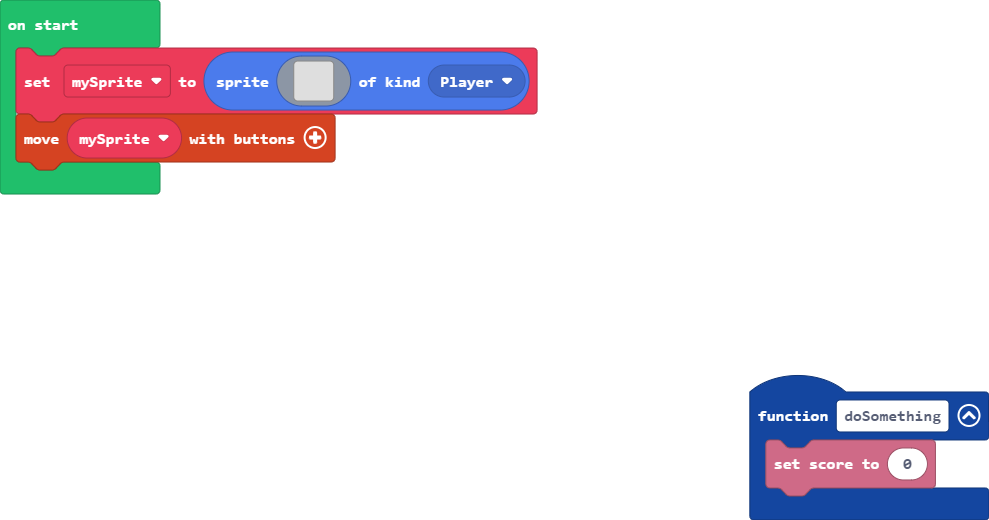
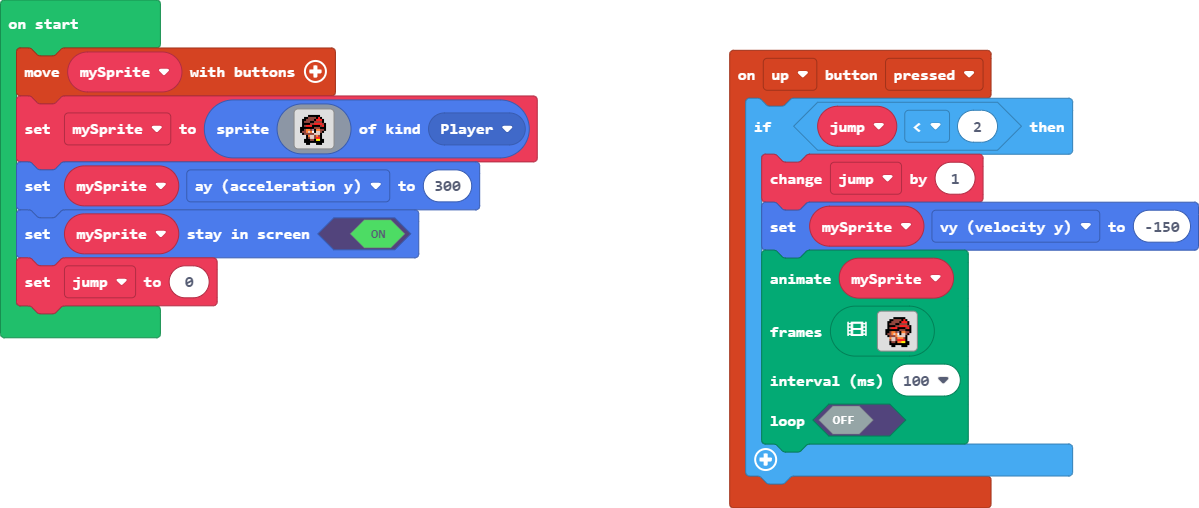
Update main.blocks, main.ts

diff --git a/main.ts b/main.ts
@@ -1,22 +1,121 @@
-function doSomething () {
-    info.setScore(0)
-}
-let mySprite = sprites.create(img`
-    . . . . . . . . . . . . . . . . 
-    . . . . . . . . . . . . . . . . 
-    . . . . . . . . . . . . . . . . 
-    . . . . . . . . . . . . . . . . 
-    . . . . . . . . . . . . . . . . 
-    . . . . . . . . . . . . . . . . 
-    . . . . . . . . . . . . . . . . 
-    . . . . . . . . . . . . . . . . 
-    . . . . . . . . . . . . . . . . 
-    . . . . . . . . . . . . . . . . 
-    . . . . . . . . . . . . . . . . 
-    . . . . . . . . . . . . . . . . 
-    . . . . . . . . . . . . . . . . 
-    . . . . . . . . . . . . . . . . 
-    . . . . . . . . . . . . . . . . 
-    . . . . . . . . . . . . . . . . 
-    `, SpriteKind.Player)
+controller.up.onEvent(ControllerButtonEvent.Pressed, function () {
+    if (jump < 2) {
+        jump += 1
+        mySprite.vy = -150
+        animation.runImageAnimation(
+        mySprite,
+        [img`
+            . . . . . . . . . . . . . . . . 
+            . . . . . . f f f f f f . . . . 
+            . . . . f f e e e e f 2 f . . . 
+            . . . f f e e e e f 2 2 2 f . . 
+            . . . f e e e f f e e e e f . . 
+            . . . f f f f e e 2 2 2 2 e f . 
+            . . . f e 2 2 2 f f f f e 2 f . 
+            . . f f f f f f f e e e f f f . 
+            . . f f e 4 4 e b f 4 4 e e f . 
+            . . f e e 4 d 4 1 f d d e f . . 
+            . . . f e e e 4 d d d d f . . . 
+            . . . . 4 d d e 4 4 4 e f . . . 
+            . . . . e d d e 2 2 2 2 f . . . 
+            . . . . f e e f 4 4 5 5 f f . . 
+            . . . . f f f f f f f f f f . . 
+            . . . . . f f . . . f f f . . . 
+            `,img`
+            . . . . . . . . . . . . . . . . 
+            . . . . . . . . . . . . . . . . 
+            . . . . . . f f f . . . . . . . 
+            . . . . . f e f f f f f f . . . 
+            . f f e 4 e e e f e f e f f . . 
+            f f e d d e 4 4 f 2 f e e f . . 
+            f f e d d e d 4 f 2 f e e e f . 
+            . f f e e 4 4 e f 2 e f e e f . 
+            . f 4 2 4 d 1 b f f e f e e f . 
+            . f 4 2 4 d f f e f 2 e f e f . 
+            f f 5 2 4 d d 4 e f 2 e 2 f f . 
+            f f 5 2 e d d 4 e f 2 e 2 2 f . 
+            f f f f f f e e f e 2 e 2 f . . 
+            . f f . . . f e f 2 e f f . . . 
+            . . . . . . . f f f f . . . . . 
+            . . . . . . . . . . . . . . . . 
+            `,img`
+            . . . f f f . . . f f . . . . . 
+            . . f f f f f f f f f f . . . . 
+            . . f f 5 5 4 4 f e e f . . . . 
+            . . . f 2 2 2 2 e d d e . . . . 
+            . . . f e 4 4 4 e d d 4 . . . . 
+            . . . f d d d d 4 e e e f . . . 
+            . . f e d d f 1 4 d 4 e e f . . 
+            . f e e 4 4 f b e 4 4 e f f . . 
+            . f f f e e e f f f f f f f . . 
+            . f 2 e f f f f 2 2 2 e f . . . 
+            . f e 2 2 2 2 e e f f f f . . . 
+            . . f e e e e f f e e e f . . . 
+            . . f 2 2 2 f e e e e f f . . . 
+            . . . f 2 f e e e e f f . . . . 
+            . . . . f f f f f f . . . . . . 
+            . . . . . . . . . . . . . . . . 
+            `,img`
+            . . . . . . . . . . . . . . . . 
+            . . . . . f f f f . . . . . . . 
+            . . . f f e 2 f e f . . . f f . 
+            . . f 2 e 2 e f e e f f f f f f 
+            . f 2 2 e 2 f e 4 d d e 2 5 f f 
+            . f f 2 e 2 f e 4 d d 4 2 5 f f 
+            . f e f e 2 f e f f d 4 2 4 f . 
+            . f e e f e f f b 1 d 4 2 4 f . 
+            . f e e f e 2 f e 4 4 e e f f . 
+            . f e e e f 2 f 4 d e d d e f f 
+            . . f e e f 2 f 4 4 e d d e f f 
+            . . f f e f e f e e e 4 e f f . 
+            . . . f f f f f f e f . . . . . 
+            . . . . . . . f f f . . . . . . 
+            . . . . . . . . . . . . . . . . 
+            . . . . . . . . . . . . . . . . 
+            `,img`
+            . . . . . . . . . . . . . . . . 
+            . . . . . . f f f f f f . . . . 
+            . . . . f f e e e e f 2 f . . . 
+            . . . f f e e e e f 2 2 2 f . . 
+            . . . f e e e f f e e e e f . . 
+            . . . f f f f e e 2 2 2 2 e f . 
+            . . . f e 2 2 2 f f f f e 2 f . 
+            . . f f f f f f f e e e f f f . 
+            . . f f e 4 4 e b f 4 4 e e f . 
+            . . f e e 4 d 4 1 f d d e f . . 
+            . . . f e e e 4 d d d d f . . . 
+            . . . . 4 d d e 4 4 4 e f . . . 
+            . . . . e d d e 2 2 2 2 f . . . 
+            . . . . f e e f 4 4 5 5 f f . . 
+            . . . . f f f f f f f f f f . . 
+            . . . . . f f . . . f f f . . . 
+            `],
+        100,
+        false
+        )
+    }
+})
+let jump = 0
+let mySprite: Sprite = null
 controller.moveSprite(mySprite)
+mySprite = sprites.create(img`
+    . . . . . . . . . . . . . . . . 
+    . . . . . f f f f f f . . . . . 
+    . . . f f e e e e f 2 f . . . . 
+    . . f f e e e e f 2 2 2 f . . . 
+    . . f e e e f f e e e e f . . . 
+    . . f f f f e e 2 2 2 2 e f . . 
+    . . f e 2 2 2 f f f f e 2 f . . 
+    . f f f f f f f e e e f f f . . 
+    . f f e 4 4 e b f 4 4 e e f . . 
+    . f e e 4 d 4 1 f d d e f . . . 
+    . . f e e e e e d d d f . . . . 
+    . . . . f 4 d d e 4 e f . . . . 
+    . . . . f e d d e 2 2 f . . . . 
+    . . . f f f e e f 5 5 f f . . . 
+    . . . f f f f f f f f f f . . . 
+    . . . . f f . . . f f f . . . . 
+    `, SpriteKind.Player)
+mySprite.ay = 300
+mySprite.setStayInScreen(true)
+jump = 0
